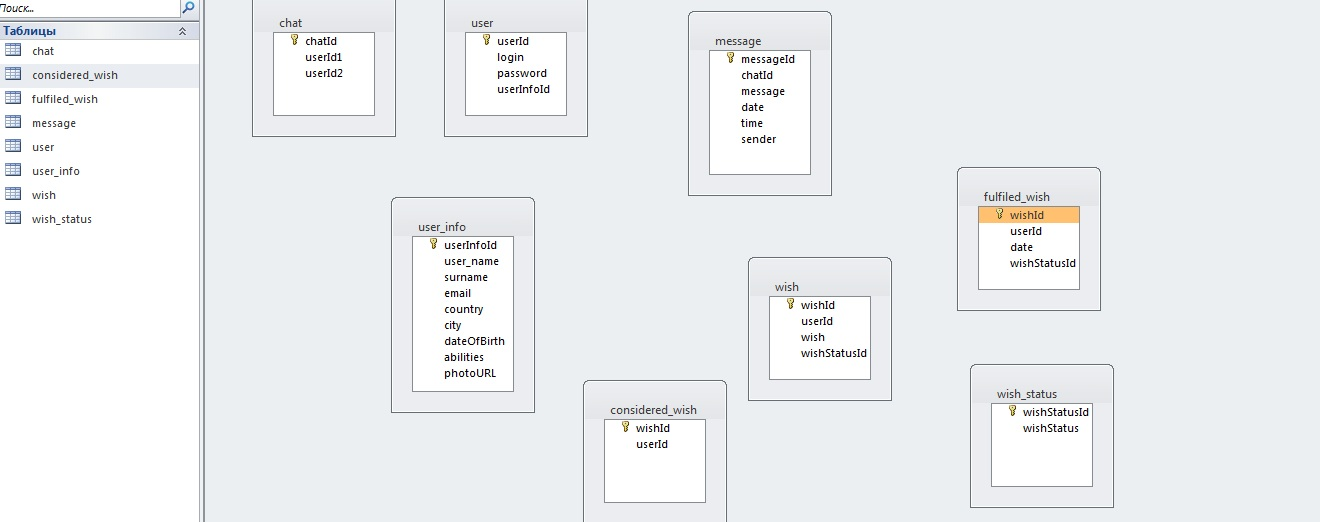
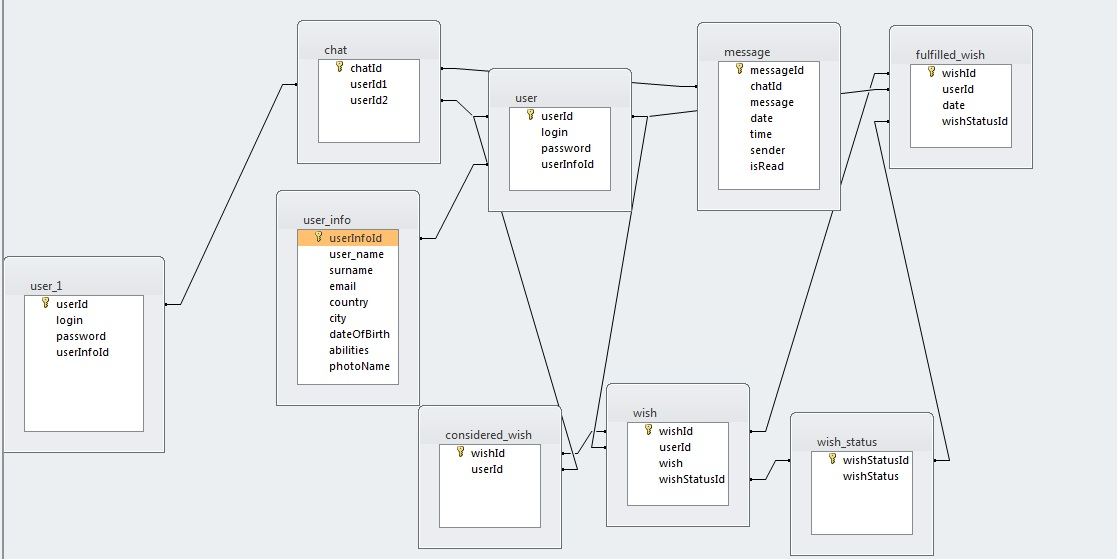
Changed photoURL to photoName, added getting all chats by userId

diff --git a/src/com/shooting_stars/project/dao/MessageDAO.java b/src/com/shooting_stars/project/dao/MessageDAO.java
@@ -1,20 +1,82 @@
 package com.shooting_stars.project.dao;
 
+import com.shooting_stars.project.entity.Chat;
+import com.shooting_stars.project.entity.User;
+import com.shooting_stars.project.exception.DAOException;
+
 import java.sql.Connection;
+import java.sql.PreparedStatement;
+import java.sql.ResultSet;
+import java.sql.SQLException;
+import java.util.ArrayList;
+import java.util.List;
 
 public class MessageDAO extends AbstractDAO {
+    public static final String SQL_SELECT_CHATS_BY_USER_ID = "SELECT chatId, chat.user1Id, user_name, surname " +
+            "FROM user_info JOIN chat ON user_info.userId = chat.user1Id " +
+            "WHERE user2Id = ? " +
+            "UNION " +
+            "SELECT chatId, chat.user2Id, user_name, surname " +
+            "FROM user_info JOIN chat ON user_info.userId = chat.user2Id " +
+            "WHERE user1Id = ?";
+    public static final String SQL_GET_AMOUNT_UNREAD_MESSAGES_BY_CHAT_ID = "SELECT COUNT(*) " +
+            "FROM message JOIN chat ON message.chatId = chat.chatId " +
+            "WHERE chat.chatId = ? AND isRead = 0 AND NOT sender = ?";
     public static final String SQL_INSERT_CHAT = "INSERT INTO chat (userId1,userId2) VALUES (?,?)";
     public static final String SQL_SELECT_CHAT_ID = "SELECT chatId FROM chat WHERE (userId1 = ? AND userId2 = ?) " +
             "OR (userId1 = ? AND userId2 = ?)";
     public static final String SQL_SELECT_MESSAGES_BY_CHAT_ID = "SELECT messageId, message, date, time, sender, login" +
             " FROM user JOIN message ON user.userId = message.sender WHERE chatId = ?";
-    public static final String SQL_SELECT_CHAT_BY_USER_ID = "SELECT chatId, userId1, login " +
-            "FROM user JOIN chat ON user.userId = chat.userId1 WHERE userId2 = ?" +
-            " UNION SELECT chatId, userId2, login " +
-            "FROM user JOIN chat ON user.userId = chat.userId2 WHERE userId1 = ?";
     public static final String SQL_INSERT_MESSAGE = "INSERT INTO message (chatId, message, date, time, sender)" +
             "VALUES (?,?,?,?,?) ";
     public MessageDAO(Connection connection) {
         super(connection);
     }
+
+    public List<Chat> getChatsByUserId(int userId) throws DAOException {
+        PreparedStatement ps = null;
+        ResultSet rs;
+        ArrayList<Chat> chats = new ArrayList<Chat>();
+        try {
+            ps = connection.prepareStatement(SQL_SELECT_CHATS_BY_USER_ID);
+            ps.setInt(1, userId);
+            ps.setInt(2,userId);
+            rs = ps.executeQuery();
+            int chatId;
+            User user;
+            int amount;
+            while (rs.next()) {
+                chatId = rs.getInt(1);
+                user = new User(rs.getInt(2),rs.getString(3), rs.getString(4));
+                amount = getAmountUnreadMessages(chatId,userId);
+                chats.add(new Chat(chatId,user,amount));
+            }
+        } catch (SQLException e) {
+            throw new DAOException("SQL exception (request or table failed): ", e);
+        }
+        finally {
+            close(ps);
+        }
+        return chats;
+    }
+    public int getAmountUnreadMessages(int chatId, int userId) throws DAOException {
+        PreparedStatement ps = null;
+        ResultSet rs;
+        int amount;
+        try {
+            ps = connection.prepareStatement(SQL_GET_AMOUNT_UNREAD_MESSAGES_BY_CHAT_ID);
+            ps.setInt(1,chatId);
+            ps.setInt(2,userId);
+            rs = ps.executeQuery();
+            rs.next();
+            amount = rs.getInt(1);
+        } catch (SQLException e) {
+            throw new DAOException("SQL exception (request or table failed): ", e);
+        }
+        finally {
+            close(ps);
+        }
+        return amount;
+    }
+
 }

diff --git a/src/com/shooting_stars/project/dao/UserDAO.java b/src/com/shooting_stars/project/dao/UserDAO.java
@@ -16,7 +16,7 @@ public class UserDAO extends AbstractDAO {
     public static final String SQL_INSERT_USER_INFO =
             "INSERT INTO user_info (userId, email, user_name, surname, country, city, dateOfBirth, abilities) VALUES (?,?,?,?,?,?,?,?)";
     public static final String SQL_CHECK_LOGIN_EXISTENCE = "SELECT COUNT(login) FROM user WHERE login = ?";
-    public static final  String SQL_UPDATE_PHOTO_URL = "UPDATE user_info SET photoURL = ? WHERE userId = ?";
+    public static final  String SQL_UPDATE_PHOTO_NAME = "UPDATE user_info SET photoName = ? WHERE userId = ?";
     public static final String SQL_FIND_USER_BY_LOGIN = "SELECT userId, login FROM user WHERE login LIKE ?";
     public static final String SQL_SELECT_USER_INFO = "SELECT * FROM user_info WHERE userId = ?";
     public static final String SQL_GET_STATUS = "SELECT status FROM user_status JOIN user ON user.userStatusId = user_status.userStatusId WHERE user.userId = ?";
@@ -113,11 +113,11 @@ public class UserDAO extends AbstractDAO {
         return exist;
     }
 
-    public void updatePhotoURL(int userId, String photoURL) throws DAOException {
+    public void updatePhotoName(int userId, String photoName) throws DAOException {
         PreparedStatement ps = null;
         try {
-            ps = connection.prepareStatement(SQL_UPDATE_PHOTO_URL);
-            ps.setString(1, photoURL);
+            ps = connection.prepareStatement(SQL_UPDATE_PHOTO_NAME);
+            ps.setString(1, photoName);
             ps.setInt(2, userId);
             ps.executeUpdate();
         } catch (SQLException e) {
@@ -193,7 +193,7 @@ public class UserDAO extends AbstractDAO {
                 userInfo.setCity(rs.getString("city"));
                 userInfo.setDateOfBirth(rs.getDate("dateOfBirth"));
                 userInfo.setAbilities(rs.getString("abilities"));
-                userInfo.setPhotoName(rs.getString("photoURL"));
+                userInfo.setPhotoName(rs.getString("photoName"));
             }
         } catch (SQLException e) {
             throw new DAOException("SQL exception (request or table failed): ", e);

diff --git a/src/com/shooting_stars/project/command/GetUserChatsCommand.java b/src/com/shooting_stars/project/command/GetUserChatsCommand.java
@@ -1,0 +1,51 @@
+package com.shooting_stars.project.command;
+
+import com.opensymphony.xwork2.ActionSupport;
+import com.shooting_stars.project.entity.Chat;
+import com.shooting_stars.project.entity.Message;
+import com.shooting_stars.project.entity.User;
+import com.shooting_stars.project.exception.CommandException;
+import com.shooting_stars.project.exception.LogicException;
+import com.shooting_stars.project.logic.MessageLogic;
+import org.apache.struts2.interceptor.SessionAware;
+
+import java.util.List;
+import java.util.Map;
+
+public class GetUserChatsCommand extends ActionSupport implements SessionAware {
+    private Exception exception;
+    private Map<String, Object> sessionAttributes = null;
+    private List<Chat> chats;
+
+    public void setSession(Map<String, Object> stringObjectMap) {
+        sessionAttributes = stringObjectMap;
+    }
+    @Override
+    public String execute() {
+        String result = SUCCESS;
+        User currentUser = (User)sessionAttributes.get("user");
+        try {
+            chats = MessageLogic.getUserChats(currentUser.getUserId());
+        } catch (LogicException e) {
+            LOG.error(e.getMessage(),e.getCause());
+            exception = new CommandException(e.getCause());
+            result = ERROR;
+        }
+        return result;
+    }
+    public Exception getException() {
+        return exception;
+    }
+
+    public void setException(Exception exception) {
+        this.exception = exception;
+    }
+
+    public List<Chat> getChats() {
+        return chats;
+    }
+
+    public void setChats(List<Chat> chats) {
+        this.chats = chats;
+    }
+}

diff --git a/src/com/shooting_stars/project/logic/MessageLogic.java b/src/com/shooting_stars/project/logic/MessageLogic.java
@@ -1,5 +1,15 @@
 package com.shooting_stars.project.logic;
 
+import com.shooting_stars.project.dao.MessageDAO;
+import com.shooting_stars.project.entity.Chat;
+import com.shooting_stars.project.exception.DAOException;
+import com.shooting_stars.project.exception.LogicException;
+import com.shooting_stars.project.exception.PoolConnectionException;
+import com.shooting_stars.project.pool.Pool;
+
+import java.sql.Connection;
+import java.util.List;
+
 /**
  * Created by Пользователь on 17.03.2015.
  */
@@ -9,5 +19,17 @@ public class MessageLogic {
     }
     public static void sendMessage(int chatId, String message) {
 
+    }
+    public static List<Chat> getUserChats(int userId) throws LogicException {
+        Connection connection = null;
+        try {
+            connection = Pool.getPool().getConnection();
+            MessageDAO messageDAO = new MessageDAO(connection);
+            return messageDAO.getChatsByUserId((userId));
+        } catch(PoolConnectionException | DAOException e ) {
+            throw new LogicException(e.getCause());
+        } finally {
+            Pool.getPool().returnConnection(connection);
+        }
     }
 }

diff --git a/src/com/shooting_stars/project/entity/Chat.java b/src/com/shooting_stars/project/entity/Chat.java
@@ -1,0 +1,41 @@
+package com.shooting_stars.project.entity;
+
+public class Chat {
+    private int chatId;
+    private User otherParticipant;
+    private int amountOfUnreadMessages;
+
+    public Chat(int chatId, User otherParticipant) {
+        this.chatId = chatId;
+        this.otherParticipant = otherParticipant;
+    }
+
+    public Chat(int chatId, User otherParticipant, int amountOfUnreadMessages) {
+        this(chatId,otherParticipant);
+        this.amountOfUnreadMessages = amountOfUnreadMessages;
+    }
+
+    public int getChatId() {
+        return chatId;
+    }
+
+    public void setChatId(int chatId) {
+        this.chatId = chatId;
+    }
+
+    public User getOtherParticipant() {
+        return otherParticipant;
+    }
+
+    public void setOtherParticipant(User otherParticipant) {
+        this.otherParticipant = otherParticipant;
+    }
+
+    public int getAmountOfUnreadMessages() {
+        return amountOfUnreadMessages;
+    }
+
+    public void setAmountOfUnreadMessages(int amountOfUnreadMessages) {
+        this.amountOfUnreadMessages = amountOfUnreadMessages;
+    }
+}

diff --git a/src/com/shooting_stars/project/logic/UserLogic.java b/src/com/shooting_stars/project/logic/UserLogic.java
@@ -66,7 +66,7 @@ public class UserLogic {
             try {
                 connection = Pool.getPool().getConnection();
                 UserDAO userDAO = new UserDAO(connection);
-                userDAO.updatePhotoURL(userId,fileName);
+                userDAO.updatePhotoName(userId, fileName);
             } catch(PoolConnectionException | DAOException e ) {
                 throw new LogicException(e.getCause());
             } finally {
